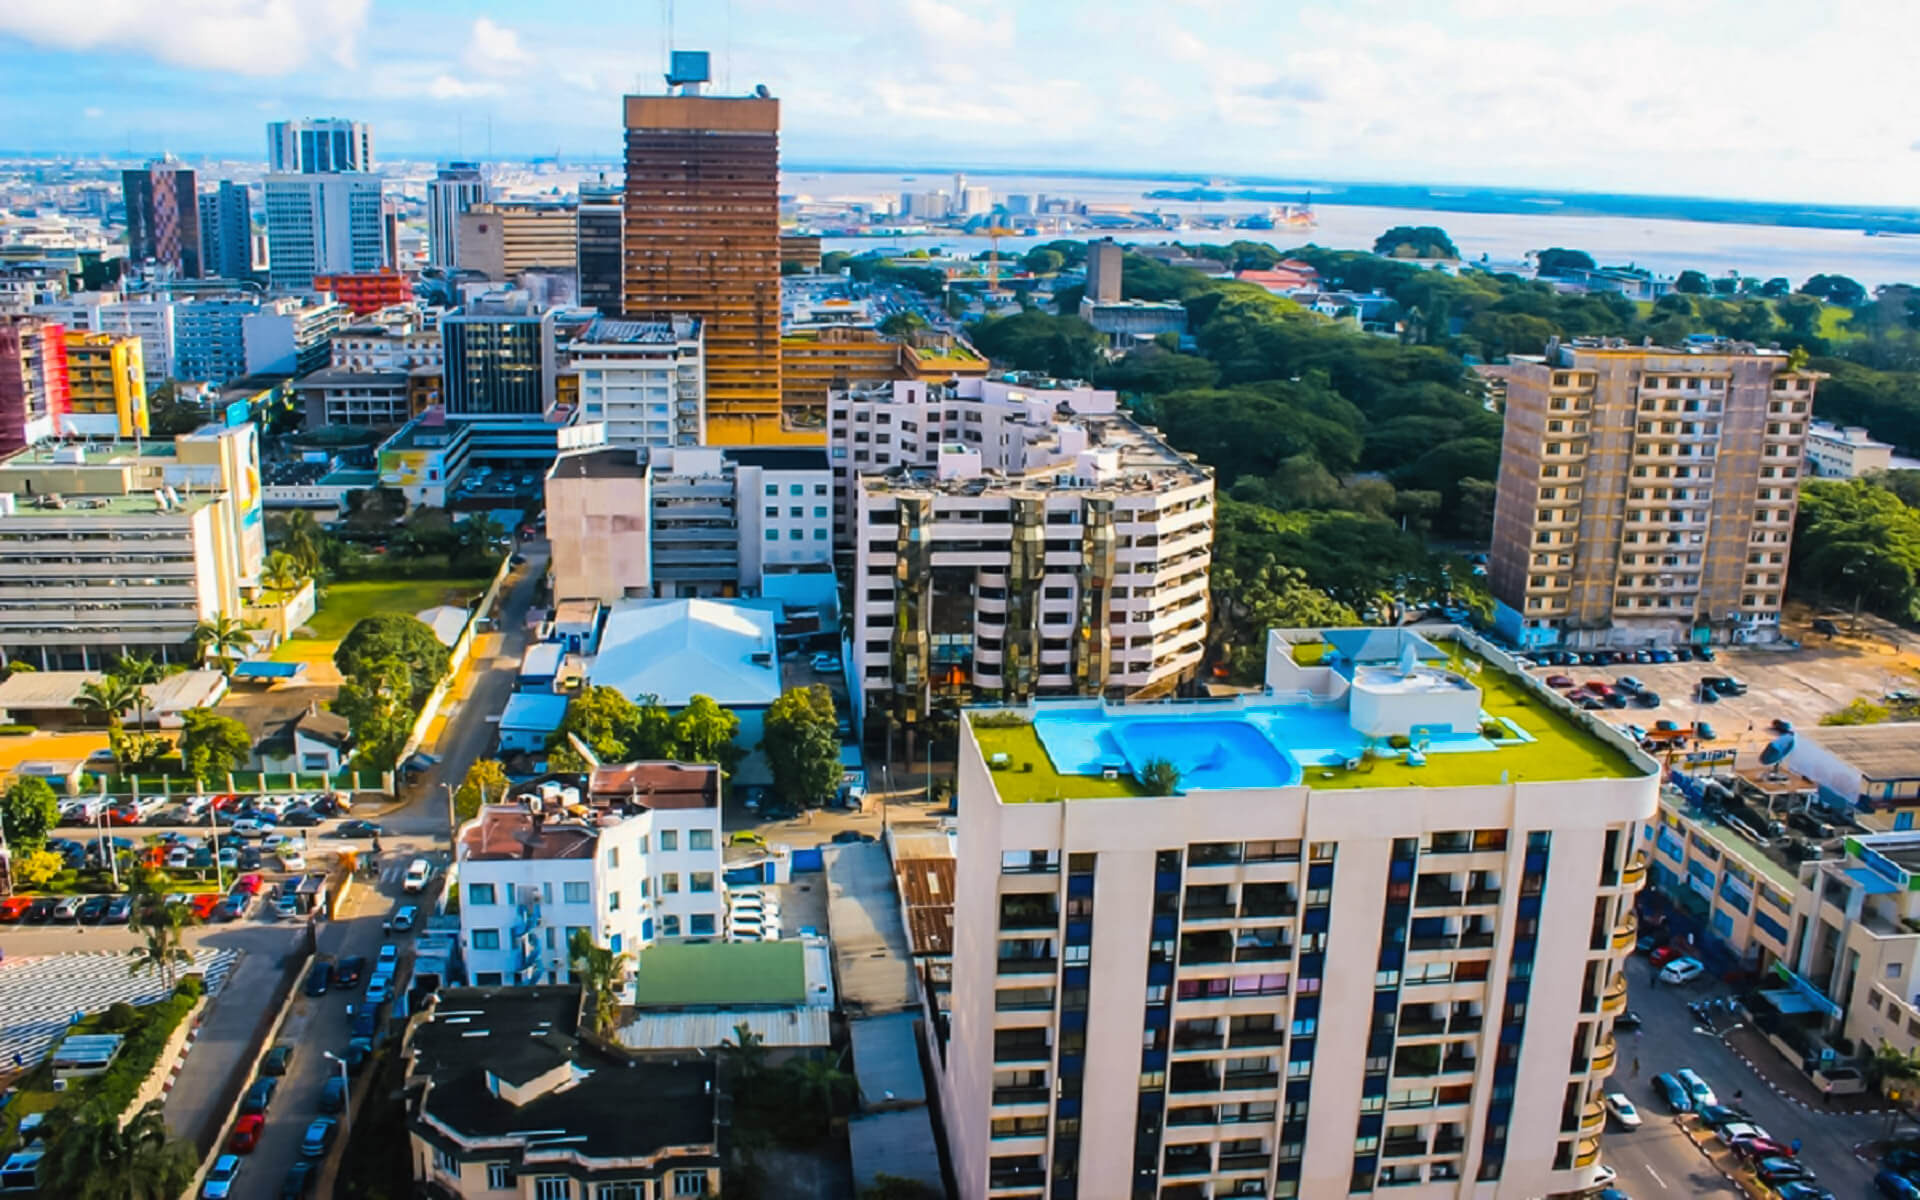
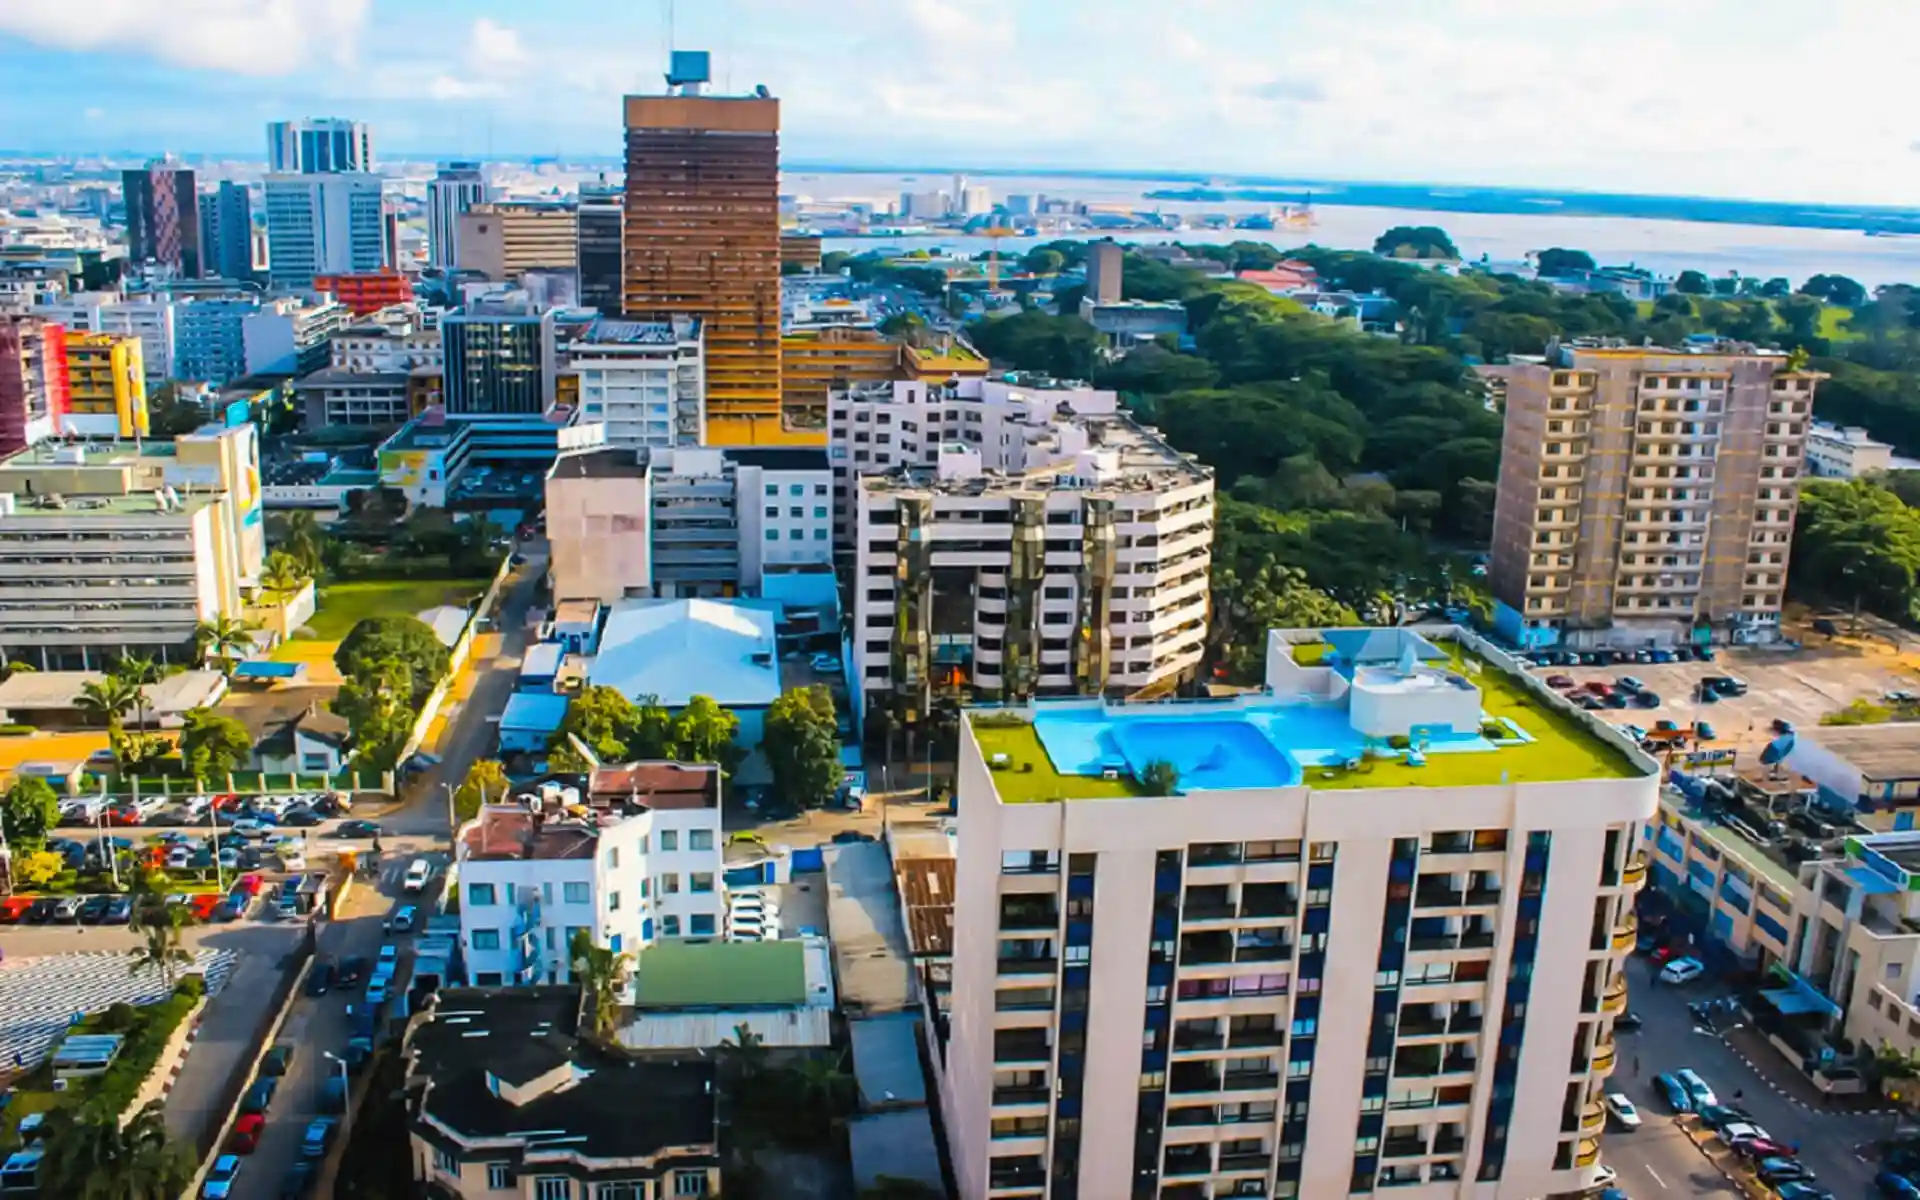
errors fixed

diff --git a/styles/place.css b/styles/place.css
@@ -42,7 +42,7 @@ header h1 {
 header .subtitle {
     font-size: 1.2rem;
     font-weight: 300;
-    opacity: 0.95;
+    opacity: 1;
 }
 
 /* Main Content */
@@ -127,7 +127,7 @@ main {
 }
 
 .weather h2::after {
-    content: " ☁️";
+    content: "";
 }
 
 .weather-content {
@@ -197,7 +197,7 @@ footer p {
     }
 
     .weather-icon {
-        display: block;
+        display: none;
     }
 
     .info-grid {
@@ -216,7 +216,7 @@ footer p {
     }
 
     .weather-icon {
-        display: block;
+        display: none;
     }
 }
 
@@ -240,7 +240,11 @@ footer p {
     }
 
     .weather-icon {
-        display: none;
+        display: block;
+    }
+
+    .weather h2::after {
+        content: " ☁️";
     }
 
     .card {

diff --git a/place.html b/place.html
@@ -4,7 +4,8 @@
 <head>
     <meta charset="UTF-8">
     <meta name="viewport" content="width=device-width, initial-scale=1.0">
-    <meta name="description" content="Discover the beauty and culture of Ivory Coast (Côte d'Ivoire) with our comprehensive guide. Learn about its history, weather, culture, and quick facts.">
+    <meta name="description"
+        content="Discover the beauty and culture of Ivory Coast (Côte d'Ivoire) with our comprehensive guide. Learn about its history, weather, culture, and quick facts.">
     <meta name="author" content="Christensen KOH">
     <title>Country Page | Christensen KOH | WDD 131</title>
     <link rel="stylesheet" href="styles/place.css">